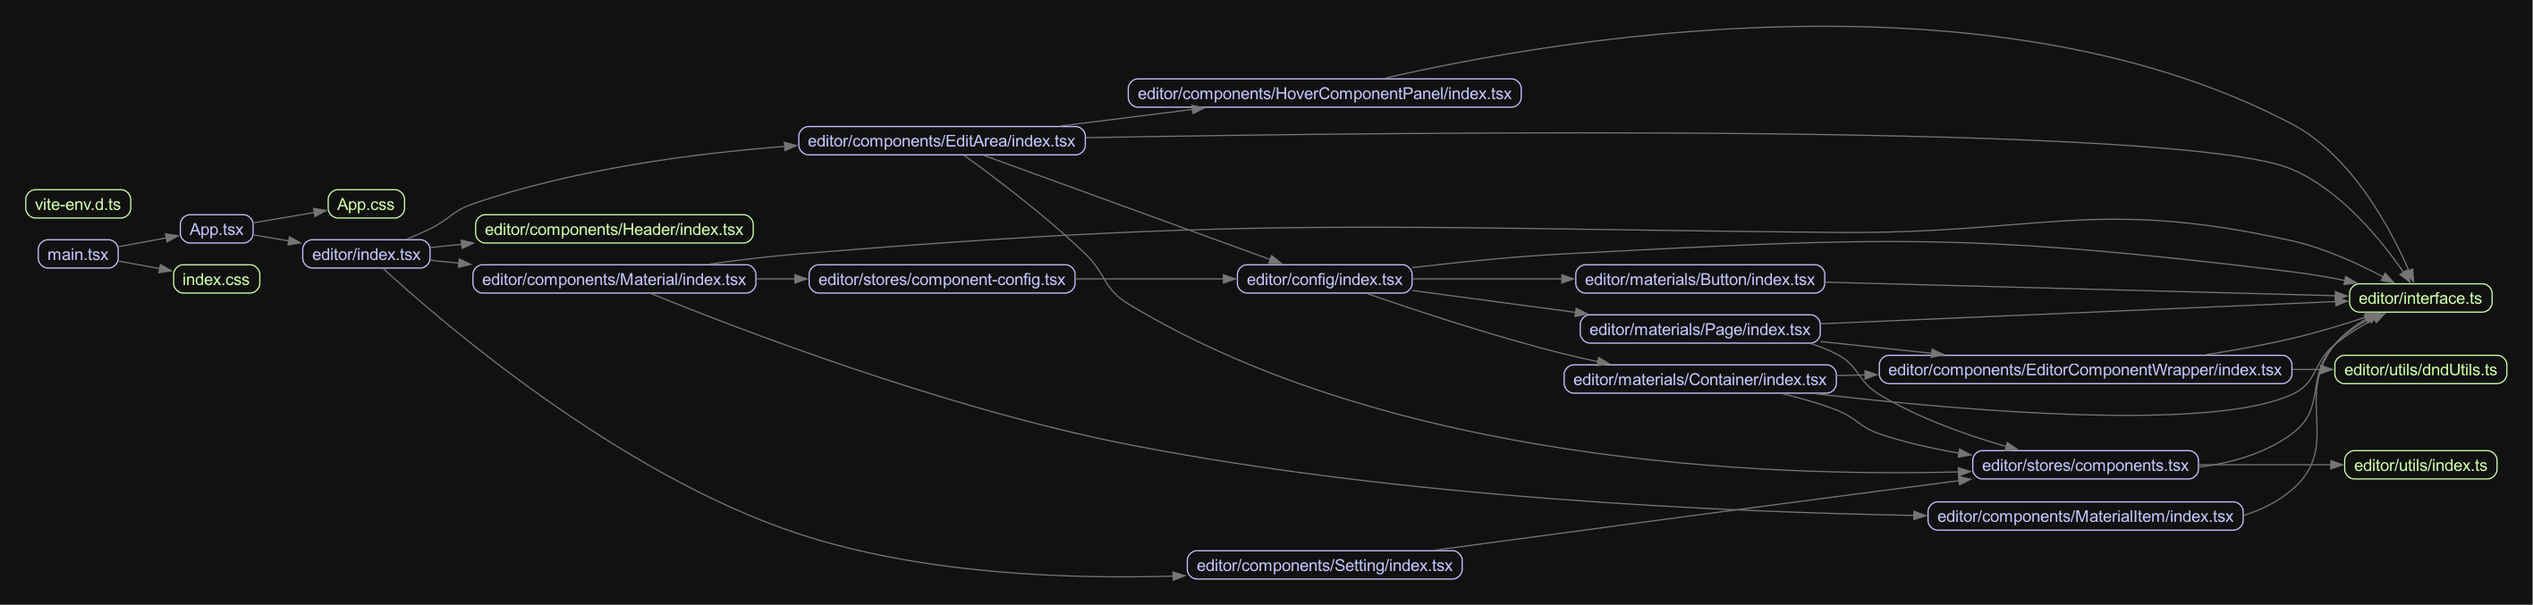
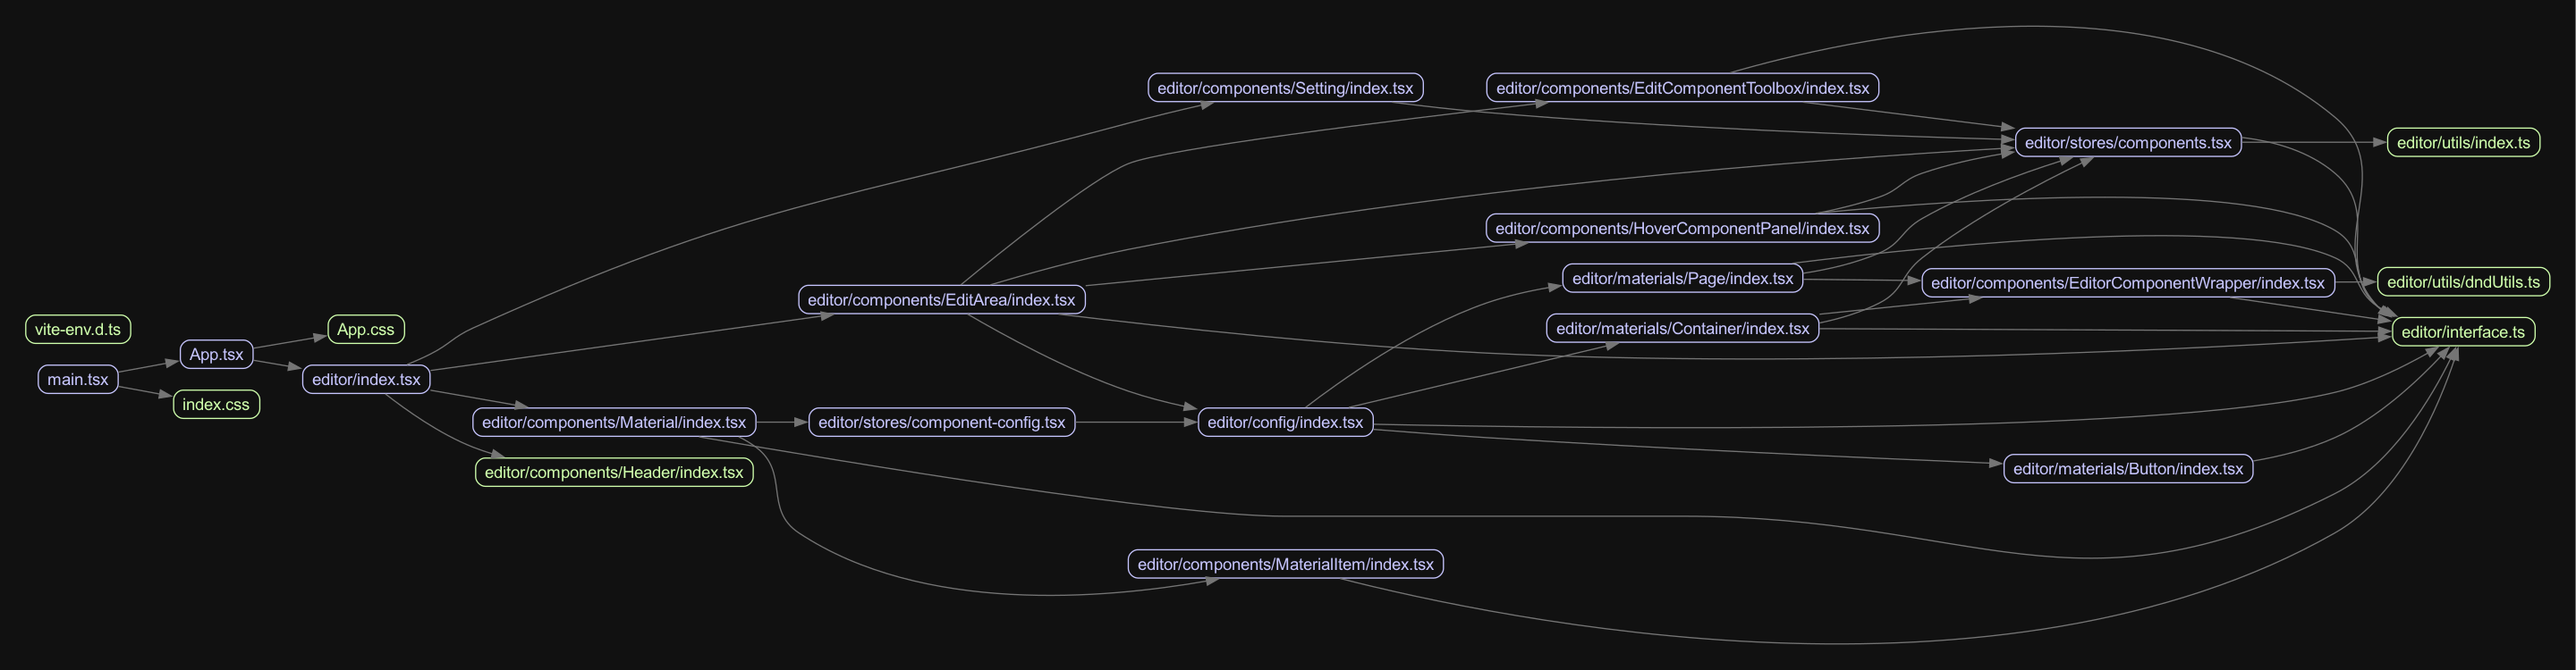
refactor: ComponentConfig

diff --git a/lowcode-editor/src/editor/stores/components.tsx b/lowcode-editor/src/editor/stores/components.tsx
@@ -18,7 +18,6 @@ interface State {
   editComponent?: ComponentDto;
 }
 interface Action {
-  getComponentById: (componentId?: ComponentId) => ComponentDto | undefined;
   addComponent: (component: ComponentConfig, parentId?: ComponentId) => void;
   removeComponent: (id: ComponentId) => void;
   updateComponentProps: (id: ComponentId, props: ComponentPropsUnion) => void;
@@ -41,13 +40,12 @@ export const useComponentsStore = create<ComponentStore>()(
       ],
       hoverComponent: undefined,
       editComponent: undefined,
-      getComponentById: (componentId?: ComponentId) => {
-        return getComponentById(componentId, get().components);
-      },
       setHoverComponent: (componentId?: ComponentId) => {
-        set(() => ({
-          hoverComponent: getComponentById(componentId, get().components),
-        }));
+        set(() => {
+          return {
+            hoverComponent: getComponentById(componentId, get().components),
+          };
+        });
       },
       addComponent: (
         createComponentDto: ComponentConfig,
@@ -61,7 +59,6 @@ export const useComponentsStore = create<ComponentStore>()(
               props: { ...defaultProps },
               id: generateId(),
             };
-
             if (parentId) {
               const parentComponent = getComponentById(parentId, draft);
 
@@ -80,7 +77,6 @@ export const useComponentsStore = create<ComponentStore>()(
           });
 
           return {
-            ...state,
             components: newComponents,
           };
         });
@@ -106,13 +102,11 @@ export const useComponentsStore = create<ComponentStore>()(
           // 检查是否需要清空 editComponent
           if (state.editComponent?.id === componentId) {
             return {
-              ...state,
               components: newComponents,
               editComponent: undefined,
             };
           } else {
             return {
-              ...state,
               components: newComponents,
             };
           }
@@ -155,12 +149,31 @@ function getComponentById(
   components: ComponentDto[],
 ): ComponentDto | undefined {
   if (!id) return undefined;
-
   for (const component of components) {
     if (component.id === id) return component;
     if (component.children && component.children.length > 0) {
-      return getComponentById(id, component.children);
+      const findComponent = getComponentById(id, component.children);
+      if (findComponent) return findComponent;
     }
   }
   return undefined;
+}
+
+export function flattenComponents(
+  components: ComponentDto[],
+): Map<ComponentId, ComponentDto> {
+  const map = new Map<ComponentId, ComponentDto>();
+
+  function dfs(components: ComponentDto[]) {
+    for (const component of components) {
+      map.set(component.id, component);
+      if (component.children && component.children.length > 0) {
+        dfs(component.children);
+      }
+    }
+  }
+
+  dfs(components);
+
+  return map;
 }

diff --git a/lowcode-editor/src/editor/components/EditComponentToolbox/index.tsx b/lowcode-editor/src/editor/components/EditComponentToolbox/index.tsx
@@ -10,7 +10,7 @@ import {
 } from "antd";
 import { useMemo } from "react";
 import { DeleteOutlined } from "@ant-design/icons";
-import { useComponentsStore } from "../../stores/components";
+import { flattenComponents, useComponentsStore } from "../../stores/components";
 
 export interface HoverComponentPanel {
   editComponent?: ComponentDto;
@@ -22,8 +22,12 @@ export default function HoverComponentPanel({
 }: HoverComponentPanel) {
   const { token } = theme.useToken();
 
-  const { removeComponent } = useComponentsStore();
+  const { components, removeComponent } = useComponentsStore();
   const { undo } = useComponentsStore.temporal.getState();
+
+  const flattenedComponents = useMemo(() => {
+    return flattenComponents(components);
+  }, [components]);
 
   const isShow = useMemo(() => !!editComponent, [editComponent]);
 
@@ -52,26 +56,27 @@ export default function HoverComponentPanel({
     const menuItems: MenuProps["items"] = [];
 
     let recuresion = editComponent;
-    while (recuresion?.parent) {
+    while (recuresion?.parentId) {
       menuItems.push({
         key: recuresion.id,
         label: recuresion.name,
       });
-      recuresion = recuresion.parent;
+      recuresion = flattenedComponents.get(recuresion.parentId);
     }
 
     return menuItems;
-  }, [editComponent]);
+  }, [editComponent, flattenedComponents]);
 
   function handleDelete() {
     if (!editComponent) return;
     removeComponent(editComponent.id);
-    // successDelete();
+    successDelete();
   }
 
   function successDelete() {
     message.success({
       key: "delete-success",
+
       content: (
         <div className="flex items-center">
           删除成功
@@ -121,7 +126,7 @@ export default function HoverComponentPanel({
                 className="cursor-pointer hover:text-[var(--ant-red)]"
                 onClick={handleDelete}
               />
-              {/* <Dropdown menu={dropdownMenu}></Dropdown> */}
+              {/* <Dropdown menu={{ items: dropdownMenu }}></Dropdown> */}
             </>
           )}
         </div>

diff --git a/lowcode-editor/src/editor/config/index.tsx b/lowcode-editor/src/editor/config/index.tsx
@@ -1,4 +1,8 @@
-import { ComponentEnum, type ComponentConfig } from "../interface";
+import {
+  ComponentEnum,
+  type ComponentConfig,
+  type ComponentPropsList,
+} from "../interface";
 import Container from "../materials/Container";
 import Button from "../materials/Button";
 import Page from "../materials/Page";
@@ -17,7 +21,6 @@ export const editComponentSetting: EditComponentSettings = {
   [ComponentEnum.Container]: {
     name: ComponentEnum.Container,
     defaultProps: {},
-    component: Container,
   },
   [ComponentEnum.Button]: {
     name: ComponentEnum.Button,
@@ -25,11 +28,17 @@ export const editComponentSetting: EditComponentSettings = {
       type: "primary",
       text: "确定",
     },
-    component: Button,
   },
   [ComponentEnum.Page]: {
     name: ComponentEnum.Page,
     defaultProps: {},
-    component: Page,
   },
+};
+
+export const componentByEnum: {
+  [key in ComponentEnum]: React.FunctionComponent<ComponentPropsList[key]>;
+} = {
+  [ComponentEnum.Container]: Container,
+  [ComponentEnum.Page]: Page,
+  [ComponentEnum.Button]: Button,
 };

diff --git a/lowcode-editor/src/editor/components/EditArea/index.tsx b/lowcode-editor/src/editor/components/EditArea/index.tsx
@@ -6,7 +6,7 @@ import {
   type ComponentPropsList,
   type RenderComponentDto,
 } from "../../interface";
-import { editComponentSetting } from "../../config";
+import { componentByEnum, editComponentSetting } from "../../config";
 import HoverComponentPanel from "../HoverComponentPanel";
 import EditComponentToolbox from "../EditComponentToolbox";
 
@@ -22,7 +22,7 @@ export default function EditArea() {
   function renderComponents(components: ComponentDto[]): React.ReactNode {
     return components.map((component) => {
       const config = editComponentSetting[component.name];
-      const Component = config.component as React.FunctionComponent<
+      const Component = componentByEnum[config.name] as React.FunctionComponent<
         ComponentPropsList[ComponentEnum]
       >;
       if (!Component) {

diff --git a/lowcode-editor/src/editor/materials/Container/index.tsx b/lowcode-editor/src/editor/materials/Container/index.tsx
@@ -1,4 +1,3 @@
-import { type DropTargetMonitor } from "react-dnd";
 import {
   ComponentEnum,
   type BaseComponentProps,
@@ -14,10 +13,7 @@ export default function Container(props: ContainerProps) {
   const { id, children } = props;
   const { addComponent } = useComponentsStore();
 
-  function handleDrop(item: ComponentConfig, monitor: DropTargetMonitor) {
-    if (monitor.didDrop()) {
-      return;
-    }
+  function handleDrop(item: ComponentConfig) {
     addComponent(item, id);
   }
 

diff --git a/lowcode-editor/src/editor/interface.ts b/lowcode-editor/src/editor/interface.ts
@@ -38,8 +38,6 @@ export interface ComponentConfig<T extends ComponentEnum = ComponentEnum> {
   name: T;
   /** 组件添加时的默认 props */
   defaultProps: Partial<ComponentPropsList[T]>;
-  /** 组件-编辑状态的渲染组件 */
-  component: React.FunctionComponent<ComponentPropsList[T]>;
 }
 export interface CreateComponentDto extends Omit<ComponentDto, "id"> {}
 export interface RenderComponentDto<T extends ComponentEnum = ComponentEnum>
